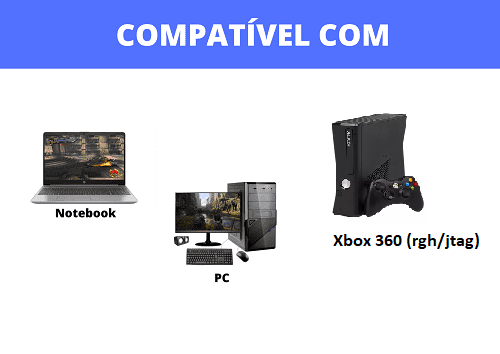
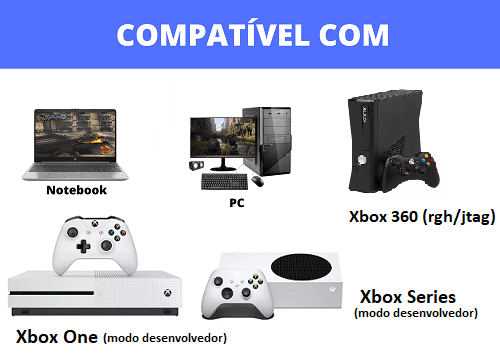
*

diff --git a/xbox360/xbox360.dev..html b/xbox360/xbox360.dev..html
@@ -584,12 +584,12 @@
 						</div>
 						<p style="font-size: 14px; line-height: 25px; text-align: center;">
 							<span style="font-size: 20px; line-height: 36px; color: #ffffff;">
-								Reviva a época dourada do Xbox 360 com os melhores jogos para jogar em seu PC, Notebook. 
-								Tenha acesso a biblioteca completa do Xbox 360 com todos os jogos já lançados.
+								Reviva a época dourada do Xbox 360 com os melhores jogos para jogar em seu PC, Notebook, Xbox 360 (desbloqueado) e no Xbox One/Series (modo desenvolvedor). 
+								Tenha acesso a biblioteca completa do Xbox 360 com mais de 3000 jogos.
 								Classicos incriveis como Street Fighter IV, Gears of Wars, Halo, Batman: Arkham City, 
 								Red Dead Redemption, BioShock, GTA V, Fable, Max Payne, Burnout 3: Takedown e muito mais
 								 <br/>
-								<strong>Compre agora mesmo por menos do preço de um lanche.</strong> 
+								<strong>Promoção Especial Somente Hoje.</strong> 
 							</span>
 						</p>
 					</div>
@@ -607,7 +607,7 @@
 						</p>
 					</div>
 					<div style="text-align: center;" class="bee-text-content">
-						<img style="width: 100%;max-width: 385px;max-height: 100px;" class="lazy" data-src="./images/499por49.png" alt="Image">
+						<img style="width: 100%;max-width: 385px;" class="lazy" data-src="./images/499por49_1.png" alt="Image">
 					</div>
 				</div>
 			</div>
@@ -630,12 +630,12 @@
 						<div class="bee-row bee-row-3"><div class="bee-row-content">
 							<div class="bee-col bee-col-1 bee-col-w4">
 								<div class="bee-block bee-block-1 bee-image">
-									<img class="bee-center bee-fixedwidth" src="./images/controle.png" style="max-width:84px;" alt="Image">
+									<img class="bee-center bee-fixedwidth" src="./images/variosarquivos.png" style="max-width:84px;" alt="Image">
 								</div>
 								<div class="bee-block bee-block-2 bee-text">
 									<div style="font-size: 14px; line-height: 150%; color: #555555; font-family: inherit;" class="bee-text-content">
 										<p style="font-size: 14px; line-height: 21px; text-align: center;">
-											Todos os Jogos já Lançados para o Xbox 360
+											Mais de 3000 Jogos já Lançados para o Xbox 360, junto com todos os jogos já lançados para o Xbox Classico.
 										</p>
 									</div>
 								</div>
@@ -645,6 +645,7 @@
 									<img class="bee-center bee-fixedwidth" src="./images/download-de-pasta.png" style="max-width:84px;" alt="Image">
 									<p style="font-size: 14px; line-height: 21px; text-align: center;">
 										Acesso imediato, baixe quando quiser, em quantos dispositivos quiser e quantas vezes quiser.
+										Acesso Vitalicio, e o melhor, sem mensalidades. Só paga uma unica vez.
 									</p>
 								</div>
 							</div>
@@ -653,7 +654,7 @@
 									<img class="bee-center bee-fixedwidth" src="./images/info.png" style="max-width:84px;" alt="Image">
 									<p style="font-size: 14px; line-height: 21px; text-align: center;">
 										Instruções com o passo a passo detalhado de como instalar e jogar em cada uma das plataformas.
-										É bem simples.
+										É bem simples, prático e fácil.
 									</p>
 								</div>
 							</div>
@@ -665,8 +666,8 @@
 								<div class="bee-block bee-block-1 bee-image">
 									<img class="bee-center bee-fixedwidth" src="./images/cloud-download-alt.png" style="max-width:84px;" alt="Image">
 									<p style="font-size: 14px; line-height: 21px; text-align: center;">
-										Conteúdo fica todo disponivel na nuvem para baixar quando quiser, quantas vezes quiser, 
-										Acesso Vitalicio, não expira nunca.
+										Conteúdo fica todo disponivel na nuvem (hd virtual) para baixar quando quiser, quantas vezes quiser,
+										em quantos equipamentos quiser, sem restrições. 
 									</p>
 								</div>
 							</div>
@@ -674,19 +675,76 @@
 								<div class="bee-block bee-block-1 bee-image">
 									<img class="bee-center bee-fixedwidth" src="./images/circulo-usd.png" style="max-width:84px;" alt="Image">
 									<p style="font-size: 14px; line-height: 21px; text-align: center;">
-										Pagamento Totalmente Seguro pelo Mercado Pago. Aceitamos: Cartão de Crédito, PIX, Boleto e Paypal
+										Pagamento Totalmente Seguro pelo Mercado Pago. Aceitamos: Cartão de Crédito, PIX, Boleto e Paypal.
+										Parcele até em 12x no cartão.
 									</p>
 								</div>
 							</div>
 							<div class="bee-col bee-col-2 bee-col-w4">
 								<div class="bee-block bee-block-1 bee-image">
-									<img class="bee-center bee-fixedwidth" src="./images/computador.png" style="max-width:84px;" alt="Image">
+									<img class="bee-center bee-fixedwidth" src="./images/multiplo.png" style="max-width:84px;" alt="Image">
 									<p style="font-size: 14px; line-height: 21px; text-align: center;">
-										É possível converter jogar no computador ou no Xbox 360 (rgh/Jtag) 
+										É possível jogar no Computador, no Notebook, no Xbox 360 (rgh/Jtag) e no Xbox One/Series (modo desenvolvedor)
 									</p>
 								</div>
 							</div>
 						</div>
+						<div class="bee-row bee-row-3"><div class="bee-row-content">
+							<div class="bee-col bee-col-2 bee-col-w4">
+								<div class="bee-block bee-block-1 bee-image">
+									<img class="bee-center bee-fixedwidth" src="./images/update.png" style="max-width:84px;" alt="Image">
+									<p style="font-size: 14px; line-height: 21px; text-align: center;">
+										Constantes atualizações, com novas versões dos softwares de emulação, traduções de jogos, patchs, DLCs e muito mais. 
+									</p>
+								</div>
+							</div>
+							<div class="bee-col bee-col-2 bee-col-w4">
+								<div class="bee-block bee-block-1 bee-image">
+									<img class="bee-center bee-fixedwidth" src="./images/nuuvem.png" style="max-width:84px;" alt="Image">
+									<p style="font-size: 14px; line-height: 21px; text-align: center;">
+										Baixe simultaniamente em todos os seus equipamentos distintos quando quiser, sem restrições. 
+										Acesso vitalicio sem mensalidades.  
+									</p>
+								</div>
+							</div>
+							<div class="bee-col bee-col-3 bee-col-w4">
+								<div class="bee-block bee-block-1 bee-image">
+									<img class="bee-center bee-fixedwidth" src="./images/controle.png" style="max-width:84px;" alt="Image">
+									<p style="font-size: 14px; line-height: 21px; text-align: center;">
+										Compativel com qualquer controle no PC e Notebook, permite também jogar pelo teclado.
+									</p>
+								</div>
+							</div>
+						</div>
+					</div>
+					<div class="bee-row bee-row-3">
+						<div class="bee-row-content">
+							<div class="bee-col bee-col-2 bee-col-w4">
+								<div class="bee-block bee-block-1 bee-image">
+									<img class="bee-center bee-fixedwidth" src="./images/email.png" style="max-width:84px;" alt="Image">
+									<p style="font-size: 14px; line-height: 21px; text-align: center;">
+										Acesso instantáneo logo após a compra, enviado diretamente para o seu email. 
+									</p>
+								</div>
+							</div>
+							<div class="bee-col bee-col-2 bee-col-w4">
+								<div class="bee-block bee-block-1 bee-image">
+									<img class="bee-center bee-fixedwidth" src="./images/velocidade.png" style="max-width:84px;" alt="Image">
+									<p style="font-size: 14px; line-height: 21px; text-align: center;">
+										Download muito rápido.
+									</p>
+								</div>
+							</div>
+							<div class="bee-col bee-col-2 bee-col-w4">
+								<div class="bee-block bee-block-1 bee-image">
+									<img class="bee-center bee-fixedwidth" src="./images/seguranca.png" style="max-width:84px;" alt="Image">
+									<p style="font-size: 14px; line-height: 21px; text-align: center;">
+										O Checkout mais seguro do Brasil, com Mercado Pago. Toda a venda é realizada por ele, com a garantia de recebimento do produto ou seu dinheiro de volta. 
+									</p>
+								</div>
+							</div>
+						</div>
+					</div>
 				</div>
 				<div class="bee-block bee-block-2 bee-button" style="text-align: center; padding-top: 0px;padding-bottom: 0px">
 					<br/><br/>
@@ -694,8 +752,25 @@
 						<img class="bee-center bee-fixedwidth" src="images/mercadopagogarantia.jpg" alt="Compra Garantida Mercado Pago" style="max-width: 90%;"/>
 					</div>
 					<p style="text-align: center; font-size: 20px; line-height: 24px;color: #000000;font-weight: bold;">
-						Programa Compra Garantida direto pelo Mercado Pago. Satisfação Garantida ou Seu Dinheiro de Volta.
+						Programa Compra Garantida direto pelo Mercado Pago. Satisfação garantida ou seu dinheiro de volta.
 					</p>
+					<br/>
+					<p style="text-align: center; font-size: 20px; line-height: 24px;color: #000000;font-weight: bold;">
+						O Mercado Pago é um dos meios mais seguros do Brasil, com ele você tem a total garantia de receber o seu produto ou se não é reembolsado pela plataforma.
+						Somos parceiros do Mercado Pago e toda a venda é feita via Mercado Pago, garantindo total segurança para o consumidor. 
+					</p>
+				</div>
+				<br/><br/>
+				<div class="slideshow-container" style="text-align: center;width: 100%;">
+						<div>
+							<p style="text-align: center; font-size: 20px; line-height: 24px;color: #FF0000;font-weight: bold;">
+								Veja o que nossos clientes dizem sobre o produto:
+							</p>
+						</div>
+						<br/>
+						<span >
+							<img class="lazy" data-src="images/provas/provas.png" style="max-width: 402px;max-height: 896px;" width="100%">
+						</span>
 				</div>
 				
 				<div class="bee-row bee-row-7">
@@ -817,7 +892,7 @@
 																									</p>
 																								</div>
 																								<div style="text-align: center;" class="bee-text-content">
-																									<img style="width: 100%;max-width: 385px;max-height: 100px;" class="lazy" data-src="./images/499por49.png" alt="Image">
+																									<img style="width: 100%;max-width: 385px;" class="lazy" data-src="./images/499por49_1.png" alt="Image">
 																								</div>
 																								<br/>
 																								<div class="bee-block bee-block-2 bee-text">
@@ -1015,6 +1090,23 @@
 																																							<span style="font-size: 18px; line-height: 21px;">
 																																								<strong style=""><span style="color: #f01010; line-height: 14px;">Resposta</span>: 
 																																									Sim.
+																																								</strong>
+																																							</span>
+																																						</p>
+																																			</div>
+																																			<p></p>
+																																			<br/>
+																																			<div style="font-size: 14px; line-height: 120%; color: #555555; font-family: inherit;" class="bee-text-content">
+																																				<p style="font-size: 18px; line-height: 21px;">
+																																					<span style="font-size: 18px; line-height: 21px; color: #000;">
+																																						<strong style="">- Qual a configuração recomendável para jogar no PC ou Notebook?</strong></span></p>
+																																						<p style="font-size: 18px; line-height: 21px;">
+																																							<span style="font-size: 18px; line-height: 21px;">
+																																								<strong style=""><span style="color: #f01010; line-height: 14px;">Resposta</span>: 
+																																									Sistema operacional Windows, é recomendável ter uma placa de video offboard ou 
+																																									um processador i5, i7, ryzen, equivalente ou superior com 4Gb de Ram. 
+																																									Porém outras configurações menores podem rodar bem também, bastando diminuir a resolução nas 
+																																									configurações.
 																																								</strong>
 																																							</span>
 																																						</p>

diff --git a/phonewhonotpurchase.html b/phonewhonotpurchase.html
@@ -1,0 +1,88 @@
+<!DOCTYPE html>
+<html>
+<head>
+    <title>Transaction Table</title>
+    <style>
+        table {
+            border-collapse: collapse;
+            width: 100%;
+        }
+
+        th, td {
+            border: 1px solid #ddd;
+            padding: 8px;
+            text-align: left;
+        }
+
+        th {
+            background-color: #f2f2f2;
+        }
+    </style>
+</head>
+<body>
+    <table id="transactionTable">
+        <thead>
+            <tr>
+                <th>Email</th>
+                <th>Datetime</th>
+                <th>Product ID</th>
+                <th>Value</th>
+                <th>WhatsApp Link</th>
+            </tr>
+        </thead>
+        <tbody></tbody>
+    </table>
+
+    <script>
+        document.addEventListener('DOMContentLoaded', function () {
+            function populateTable(data) {
+                const tableBody = document.querySelector('#transactionTable tbody');
+
+                data.forEach(transaction => {
+                    const row = document.createElement('tr');
+
+                    const emailCell = document.createElement('td');
+                    emailCell.textContent = transaction.email;
+                    row.appendChild(emailCell);
+
+                    const datetimeCell = document.createElement('td');
+                    datetimeCell.textContent = transaction.datetime;
+                    row.appendChild(datetimeCell);
+
+                    const productIdCell = document.createElement('td');
+                    productIdCell.textContent = transaction.productid;
+                    row.appendChild(productIdCell);
+
+                    const valueCell = document.createElement('td');
+                    valueCell.textContent = transaction.value;
+                    row.appendChild(valueCell);
+
+                    let whatsaplink = '';
+
+                    if (transaction.whatsapp_link != '') {
+                        whatsaplink = 'WhatsApp Link';
+                    }
+
+                    const whatsappCell = document.createElement('td');
+                    const whatsappLink = document.createElement('a');
+                    whatsappLink.href = transaction.whatsapp_link;
+                    whatsappLink.textContent = whatsaplink;
+                    whatsappCell.appendChild(whatsappLink);
+                    row.appendChild(whatsappCell);
+
+                    tableBody.appendChild(row);
+                });
+            }
+
+            fetch('https://digitalstoregames.pythonanywhere.com/phone_who_notpurchase')
+                .then(response => response.json())
+                .then(data => {
+                    populateTable(data);
+                })
+                .catch(error => {
+                    console.error('Error:', error);
+                });
+        });
+    </script>
+</body>
+</html>

diff --git a/ps2/ofertas/index.html b/ps2/ofertas/index.html
@@ -120,9 +120,6 @@
                         <input type="text" id="fone" oninput="formatarTelefone()" autocomplete="off" required name="fone" class="input-field">
                         <label class="label selected">Celular com DDD:</label>
                       </div>
-                      <a href="javascript:pagar()" class="w-full button hover:opacity-75 next-button font-bold p-4 text-white text-base rounded text-center uppercase" style="background-color: #5271ff;">
-                          Pagar Agora
-                      </a>
                     </div>
                     <div id="checkoutblock" class="text-black bg-white rounded-md py-4 px-3 md:px-6 mb-4 sm:mb-0 sm:border sm:shadow w-full">
                       <!---->

diff --git a/psx/ofertas/index.html b/psx/ofertas/index.html
@@ -116,9 +116,6 @@
                         <input type="text" id="fone" oninput="formatarTelefone()" autocomplete="off" required name="fone" class="input-field">
                         <label class="label selected">Celular com DDD:</label>
                       </div>
-                      <a href="javascript:pagar()" class="w-full button hover:opacity-75 next-button font-bold p-4 text-white text-base rounded text-center uppercase" style="background-color: #5271ff;">
-                          Pagar Agora
-                      </a>
                     </div>
                     <div id="checkoutblock" class="text-black bg-white rounded-md py-4 px-3 md:px-6 mb-4 sm:mb-0 sm:border sm:shadow w-full">
                       <!---->

diff --git a/xbox360/ofertas/index.html b/xbox360/ofertas/index.html
@@ -115,9 +115,6 @@
                         <input type="text" id="fone" oninput="formatarTelefone()" autocomplete="off" required name="fone" class="input-field">
                         <label class="label selected">Celular com DDD:</label>
                       </div>
-                      <a href="javascript:pagar()" class="w-full button hover:opacity-75 next-button font-bold p-4 text-white text-base rounded text-center uppercase" style="background-color: #5271ff;">
-                          Pagar Agora
-                      </a>
                     </div>
                     <div id="checkoutblock" class="text-black bg-white rounded-md py-4 px-3 md:px-6 mb-4 sm:mb-0 sm:border sm:shadow w-full">
                       <!---->

diff --git a/50emul/ofertas/index.html b/50emul/ofertas/index.html
@@ -124,9 +124,6 @@
                         <input type="text" id="fone" oninput="formatarTelefone()" autocomplete="off" required name="fone" class="input-field">
                         <label class="label selected">Celular com DDD:</label>
                       </div>
-                      <a href="javascript:pagar()" class="w-full button hover:opacity-75 next-button font-bold p-4 text-white text-base rounded text-center uppercase" style="background-color: #5271ff;">
-                          Pagar Agora
-                      </a>
                     </div>
 
                     <div id="checkoutblock" class="text-black bg-white rounded-md py-4 px-3 md:px-6 mb-4 sm:mb-0 sm:border sm:shadow w-full">
